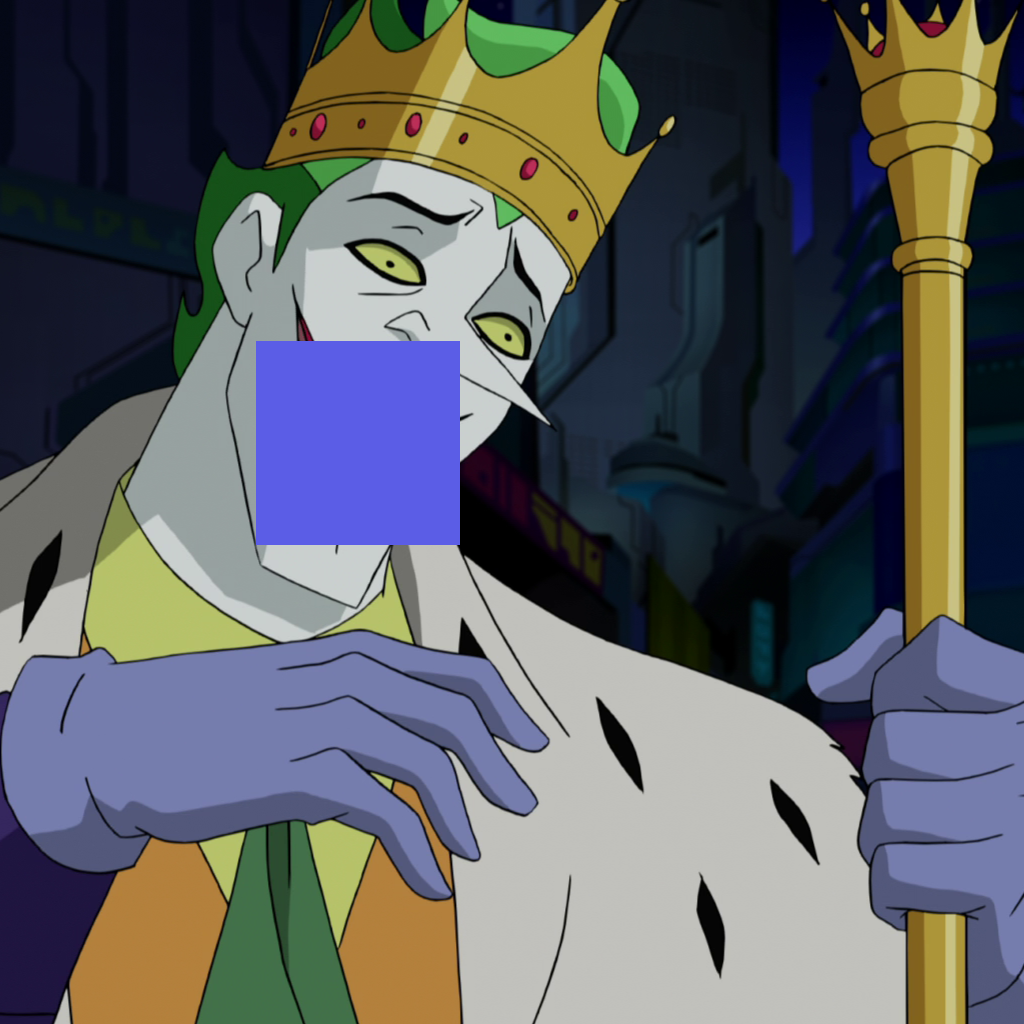
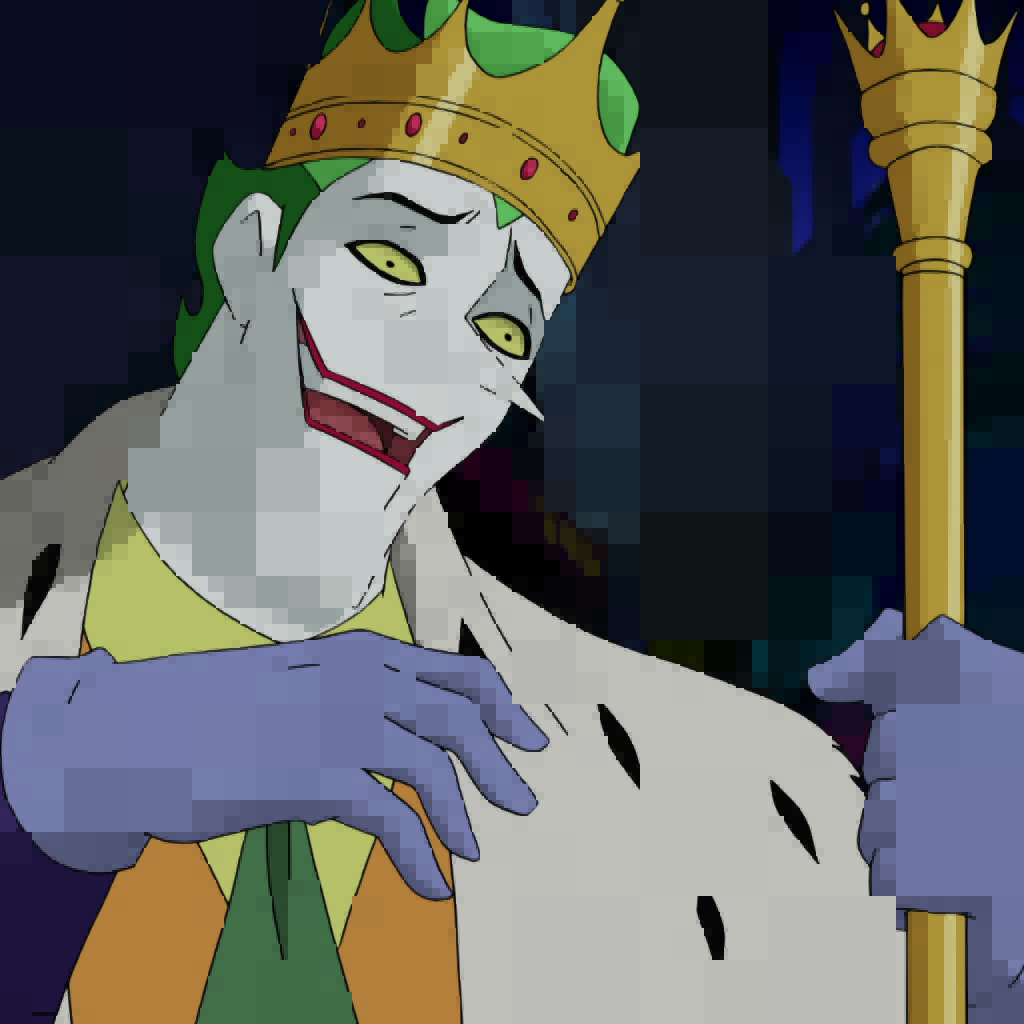
Filtra de la perra. Pareciera filtrar bien la pregunta 1 'Filtro alfa'

diff --git a/src/dccompress/main.c b/src/dccompress/main.c
@@ -6,6 +6,7 @@
 
 #include "../imagelib/imagelib.h"
 #include "QuadTree.h"
+#include "filters.h"
 
 /** Retorna true si ambos strings son iguales */
 bool string_equals(char* string1, char* string2) {
@@ -70,14 +71,6 @@ int main(int argc, char** argv) {
 	// printHola();
 	tree = createQuadTree(NULL, img, 0, img->width, 0, img->height);
 
-	printf("Lets see the means and standard deviations of the tree...\n");
-	/* Imprimimos los valores de la media y la desviación estandar de cada nodo */
-
-	// malloc para el arreglo de floats
-	float* out_direction = malloc(6 * sizeof(float));
-	getStatistics(tree, out_direction);
-	printf("L: %f, a: %f, b: %f, L_std: %f, a_std: %f, b_std: %f\n", out_direction[0], out_direction[1], out_direction[2], out_direction[3], out_direction[4], out_direction[5]);
-
 	if (0 == 1) {
 		printf("Deep: %d\n", tree->deep);
 	}
@@ -94,7 +87,10 @@ int main(int argc, char** argv) {
 	if (string_equals(MODE, "filter")) {
 		/* Entonces usaremos PARAM como límite */
 		alpha = atof(PARAM);
+		printf("Hojas inicial: %d\n", countLeaves(tree));
 		printf("Filtrando imagen con alpha = %f\n", alpha);
+		useFilterAlpha(tree, alpha);
+		printf("Hojas final: %d\n", countLeaves(tree));
 	}
 	/* Si estamos en modo comprimir */
 	else if (string_equals(MODE, "compress")) {
@@ -111,13 +107,14 @@ int main(int argc, char** argv) {
 
 	// Pintamos un cuadrado de ejemplo //
 	// Para tu tarea usa este ejemplo para pintar las imagenes //
-	img_square_paint(
-	    img,                                           // Imagen donde se pintara el cuadrado
-	    img->height / 3,                               // Fila donde comienza el cuadrado
-	    img->width / 4,                                // Columna donde comienza el cuadrado
-	    img->height / 5,                               // Largo del lado del cuadrado
-	    (Color){.L = 46.97, .a = 38.96, .b = -69.98}   // Color a pintar
-	);
+	rePrintImg(tree, img);
+	// img_square_paint(
+	//     img,                                           // Imagen donde se pintara el cuadrado
+	//     img->height / 3,                               // Fila donde comienza el cuadrado
+	//     img->width / 4,                                // Columna donde comienza el cuadrado
+	//     img->height / 5,                               // Largo del lado del cuadrado
+	//     (Color){.L = 46.97, .a = 38.96, .b = -69.98}   // Color a pintar
+	// );
 	// Fin ejemplo //
 
 	/* Momento en el que terminamos de procesar la imagen */

diff --git a/src/dccompress/filters.c b/src/dccompress/filters.c
@@ -1,0 +1,87 @@
+
+#include "filters.h"
+
+void filterAlpha(QuadTree *node, float alpha, float *mu_arr, float *sigma_arr) {
+	if (!node->isLeaf) {
+		mu_arr[0] = 0;
+		mu_arr[1] = 0;
+		mu_arr[2] = 0;
+
+		sigma_arr[0] = 0;
+		sigma_arr[1] = 0;
+		sigma_arr[2] = 0;
+
+		// get statistics
+		getStatistics(node, mu_arr, sigma_arr);
+
+		float sigma = (sigma_arr[0] + sigma_arr[1] + sigma_arr[2]) / 3;
+
+		if (sigma <= alpha) {
+			printf("Filtrando cuadrante de anchos %d con sigma %f\n", node->r - node->l, sigma);
+
+			node->isLeaf = true;
+			node->UL = NULL;
+			node->UR = NULL;
+			node->LL = NULL;
+			node->LR = NULL;
+			node->L = mu_arr[0];
+			node->a = mu_arr[1];
+			node->b = mu_arr[2];
+		}
+		else {
+			filterAlpha(node->UL, alpha, mu_arr, sigma_arr);
+			filterAlpha(node->UR, alpha, mu_arr, sigma_arr);
+			filterAlpha(node->LL, alpha, mu_arr, sigma_arr);
+			filterAlpha(node->LR, alpha, mu_arr, sigma_arr);
+		}
+	}
+}
+
+void useFilterAlpha(QuadTree *node, float alpha) {
+	float *mu_arr = malloc(3 * sizeof(float));
+	float *sigma_arr = malloc(3 * sizeof(float));
+
+	filterAlpha(node, alpha, mu_arr, sigma_arr);
+
+	free(mu_arr);
+	free(sigma_arr);
+}
+
+void calculateStatistics(QuadTree *node, int *N, float *mu_arr, float *sigma_arr) {
+	if (node->isLeaf) {
+		int n = *N + 1;
+
+		float mu_L = mu_arr[0];
+		float mu_a = mu_arr[1];
+		float mu_b = mu_arr[2];
+
+		mu_arr[0] = mu_arr[0] + (node->L - mu_arr[0]) / (float)n;
+		mu_arr[1] = mu_arr[1] + (node->a - mu_arr[1]) / (float)n;
+		mu_arr[2] = mu_arr[2] + (node->b - mu_arr[2]) / (float)n;
+
+		sigma_arr[0] = sigma_arr[0] + (node->L - mu_L) * (node->L - mu_arr[0]);
+		sigma_arr[1] = sigma_arr[1] + (node->a - mu_a) * (node->a - mu_arr[1]);
+		sigma_arr[2] = sigma_arr[2] + (node->b - mu_b) * (node->b - mu_arr[2]);
+
+		*N = n;
+	}
+	else {
+		calculateStatistics(node->UL, N, mu_arr, sigma_arr);
+		calculateStatistics(node->UR, N, mu_arr, sigma_arr);
+		calculateStatistics(node->LL, N, mu_arr, sigma_arr);
+		calculateStatistics(node->LR, N, mu_arr, sigma_arr);
+	}
+}
+
+void getStatistics(QuadTree *node, float *mu_arr, float *sigma_arr) {
+	int *N = malloc(sizeof(int));
+	*N = 0;
+
+	calculateStatistics(node, N, mu_arr, sigma_arr);
+
+	sigma_arr[0] = sqrt(sigma_arr[0] / (float)(*N));
+	sigma_arr[1] = sqrt(sigma_arr[1] / (float)(*N));
+	sigma_arr[2] = sqrt(sigma_arr[2] / (float)(*N));
+
+	free(N);
+}

diff --git a/src/dccompress/QuadTree.c b/src/dccompress/QuadTree.c
@@ -49,56 +49,31 @@ QuadTree *addLeaf(QuadTree *qt, Image *img, int x, int y) {
 	return qt;
 }
 
-void calculateStatistics(QuadTree *node, int *N, float *mu_arr, float *sigma_arr) {
+void rePrintImg(QuadTree *node, Image *img) {
 	if (node->isLeaf) {
-		int n = *N + 1;
-
-		float mu_L = mu_arr[0];
-		float mu_a = mu_arr[1];
-		float mu_b = mu_arr[2];
-
-		mu_arr[0] = mu_arr[0] + (node->L - mu_arr[0]) / (float)n;
-		mu_arr[1] = mu_arr[1] + (node->a - mu_arr[1]) / (float)n;
-		mu_arr[2] = mu_arr[2] + (node->b - mu_arr[2]) / (float)n;
-
-		sigma_arr[0] = sigma_arr[0] + (node->L - mu_L) * (node->L - mu_arr[0]);
-		sigma_arr[1] = sigma_arr[1] + (node->a - mu_a) * (node->a - mu_arr[1]);
-		sigma_arr[2] = sigma_arr[2] + (node->b - mu_b) * (node->b - mu_arr[2]);
-
-		*N = n;
+		for (int i = node->u; i < node->d; i++) {
+			img_square_paint(
+			    img,
+			    node->u,
+			    node->l,
+			    node->r - node->l,
+			    (Color){.L = node->L, .a = node->a, .b = node->b});
+		}
 	}
 	else {
-		calculateStatistics(node->UL, N, mu_arr, sigma_arr);
-		calculateStatistics(node->UR, N, mu_arr, sigma_arr);
-		calculateStatistics(node->LL, N, mu_arr, sigma_arr);
-		calculateStatistics(node->LR, N, mu_arr, sigma_arr);
+		rePrintImg(node->UL, img);
+		rePrintImg(node->UR, img);
+		rePrintImg(node->LL, img);
+		rePrintImg(node->LR, img);
 	}
 }
 
-void getStatistics(QuadTree *node, float *out_direction) {
-	int *N = malloc(sizeof(int));
-	*N = 0;
-
-	float *mu_arr = malloc(3 * sizeof(float));
-	mu_arr[0] = 0;
-	mu_arr[1] = 0;
-	mu_arr[2] = 0;
-
-	float *sigma_arr = malloc(3 * sizeof(float));
-	sigma_arr[0] = 0;
-	sigma_arr[1] = 0;
-	sigma_arr[2] = 0;
-
-	calculateStatistics(node, N, mu_arr, sigma_arr);
-
-	out_direction[0] = mu_arr[0];
-	out_direction[1] = mu_arr[1];
-	out_direction[2] = mu_arr[2];
-	out_direction[3] = sqrt(sigma_arr[0] / (float)(*N));
-	out_direction[4] = sqrt(sigma_arr[1] / (float)(*N));
-	out_direction[5] = sqrt(sigma_arr[2] / (float)(*N));
-
-	free(N);
-	free(mu_arr);
-	free(sigma_arr);
+int countLeaves(QuadTree *node) {
+	if (node->isLeaf) {
+		return 1;
+	}
+	else {
+		return countLeaves(node->UL) + countLeaves(node->UR) +
+		       countLeaves(node->LL) + countLeaves(node->LR);
+	}
 }

diff --git a/src/dccompress/filters.h b/src/dccompress/filters.h
@@ -1,0 +1,22 @@
+#pragma once
+
+#include <stdio.h>
+#include <stdlib.h>
+#include <string.h>
+
+#include "QuadTree.h"
+
+// Filtro alfa
+void filterAlpha(QuadTree *node, float alpha, float *mu_arr, float *sigma_arr);
+
+// Function that calls filterAlpha
+void useFilterAlpha(QuadTree *node, float alpha);
+
+// Compresión de la imagen
+void compressImage(QuadTree *node);
+
+// Calculos de la media y la desviación estandar del cuadrante
+void getStatistics(QuadTree *node, float *mu_arr, float *sigma_arr);
+
+// Calcula la media y la desviación estandar de un cuadrante
+void calculateStatistics(QuadTree *node, int *N, float *mu_arr, float *sigma_arr);

diff --git a/src/dccompress/QuadTree.h b/src/dccompress/QuadTree.h
@@ -30,8 +30,9 @@ QuadTree *createQuadTree(QuadTree *parent, Image *img, int l, int r, int u, int 
 // En caso de ser una hoja
 QuadTree *addLeaf(QuadTree *qt, Image *img, int x, int y);
 
-// Calculos de la media y la desviación estandar del cuadrante
-void getStatistics(QuadTree *node, float *out_direction);
+void rePrintImg(QuadTree *node, Image *img);
 
-// Calcula la media y la desviación estandar de un cuadrante
-void calculateStatistics(QuadTree *node, int *N, float *mu_arr, float *sigma_arr);
+// Extras para debuggear
+
+// Contador de hojas
+int countLeaves(QuadTree *node);
